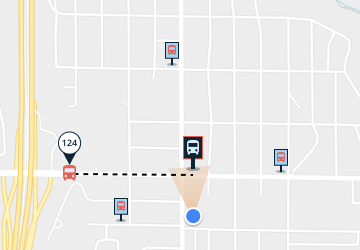
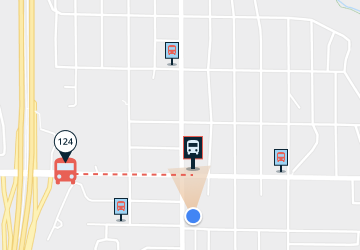
Change UX

Changed region(s): [[0.1222, 0.504, 0.5194, 0.756]]

diff --git a/css/style.css b/css/style.css
@@ -1,10 +1,11 @@
 body {
-  background-color: #0B2535;
+  background-color: #8a8a8a;
   color: #fff;
   font-size: 10px;
   width: 360px;
   height: 100%;
   font-family: roboto, sans-serif;
+  margin: 0 auto;
 }
 
 *, *::before, *::after {
@@ -32,6 +33,7 @@ h4 {
 }
 
 .container {
+  background-color: #0B2535;
   display: inline-block;
   width: 100%;
   height: 100%;
@@ -59,15 +61,16 @@ padding-top: 5%;
 }
 
 .map {
-  width: 100%;
+  background-image: url("../images/map.png");
+  width: 360px;
   height: 250px;
-  overflow: hidden;
+  margin-bottom: 1px;
 }
 
 .bus-stop {
-  position: absolute;
+  position: relative;
   left: 75px;
-  top: 80px;
+  top: 20px;
 }
 
 .toggle {
@@ -161,4 +164,9 @@ padding-top: 5%;
 .alert {
   position: absolute;
   padding: 17px 0px 0px 15px;
+}
+
+.disable {
+  background-color: #e5e5e5;
+  color: #666;
 }

diff --git a/index.html b/index.html
@@ -14,9 +14,8 @@
           <img src="images/Back-icon.png" class="back-icon">
           <h1 class="nav-text">Washington/State</h1>
       </div>
-      <div>
-        <img src="images/map.png" class="map" width="514px" height="544px">
-        <img src="images/Bus stop.png" class="bus-stop">
+      <div class="map">
+        <img src="images/Bus Stop.png" class="bus-stop">
       </div>
       <div class="toggle">
         <div class="left-tog">
@@ -92,7 +91,7 @@
             <h4>15 minutes</h4>
           </div>
         </div>
-        <div class="info-button">
+        <div class="info-button disable">
           <img src="images/error.png" class="alert">
           <div class="LT-text-alert">
             <h2>6</h2>
